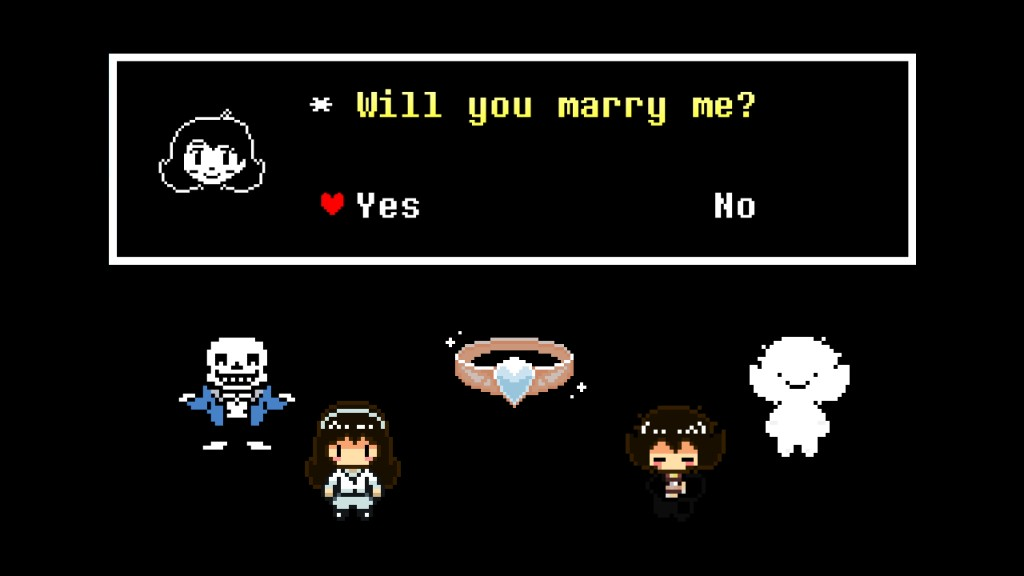
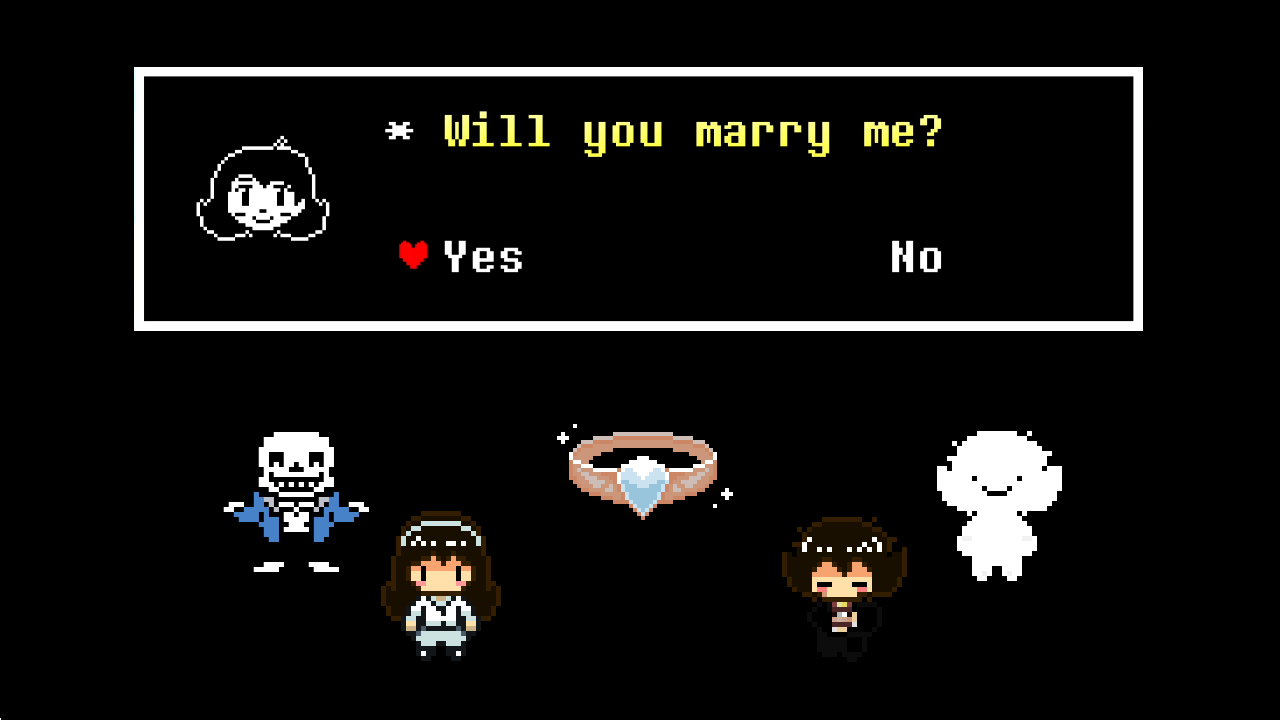
Smooth natural work drawers and stop the YouTube mount 1px bump.
Speed phone/portrait expands, defer YouTube until settle, keep the face poster until paint, and put 16:9 on the player shell so late iframe mounts cannot grow the frame. Point Undertale at the marry-me thumbnail.

diff --git a/src/components/ShowcaseVideoEditingDetail.tsx b/src/components/ShowcaseVideoEditingDetail.tsx
@@ -330,6 +330,17 @@ const DETAIL_TAB_BODY_IN_DELAY_NATURAL_S =
 const DETAIL_TITLE_MOVE_DUR_MS = DETAIL_CARD_RESIZE_DUR_MS;
 /** Now-playing title AnimatePresence crossfade (keep in sync with JSX transition). */
 const DETAIL_TITLE_CROSSFADE_MS = 220;
+/** Phone / tablet-portrait work-switch: same path, tighter clock (keeps eases). */
+const DETAIL_NATURAL_SPEED = 0.72;
+const DETAIL_NATURAL_TITLE_CROSSFADE_MS = Math.round(
+  DETAIL_TITLE_CROSSFADE_MS * DETAIL_NATURAL_SPEED,
+);
+const DETAIL_NATURAL_CUTOFF_LEAD_MS = Math.round(
+  DETAIL_CUTOFF_LEAD_MS * DETAIL_NATURAL_SPEED,
+);
+const DETAIL_NATURAL_CARD_RESIZE_DUR_MS = Math.round(
+  DETAIL_CARD_RESIZE_DUR_MS * DETAIL_NATURAL_SPEED,
+);
 /**
  * Clicks closer than this are "rapid": abort/coalesce and snap instead of stacking
  * the full title→card→reveal choreography.
@@ -690,6 +701,10 @@ export function ShowcaseVideoEditingDetail({
    */
   const [youtubeFaceCoverHold, setYoutubeFaceCoverHold] = useState(false);
   const youtubeFaceCoverHoldTimerRef = useRef<number | null>(null);
+  /** True while work-switch motion is still running — poster must stay up. */
+  const youtubeAwaitingMotionSettleRef = useRef(false);
+  /** Iframe painted during the covered wait (safe to lift once settle clears). */
+  const youtubePaintedUnderCoverRef = useRef(false);
   /** Desktop + tablet landscape — expand/shrink drawer clamped to player bottom. */
   const [isPlayerCappedDrawerViewport, setIsPlayerCappedDrawerViewport] = useState(
     matchesDetailPlayerCapViewport,
@@ -1732,6 +1747,10 @@ export function ShowcaseVideoEditingDetail({
         toHeightPx?: number;
         /** Override rAF duration (natural work-switch couples title + card). */
         durationMs?: number;
+        /** 0-1 multiplier after duration pick (natural phone speed-up). */
+        speedScale?: number;
+        /** Natural: bump reserve once, skip per-frame reserve writes (cut layout thrash). */
+        freezeReserve?: boolean;
       },
     ) => {
       const onSettled = options?.onSettled;
@@ -1846,16 +1865,42 @@ export function ShowcaseVideoEditingDetail({
         const heightDelta = Math.abs(toHeight - fromHeight);
         // Forced short duration is for small tab-scale moves. Tall overviews
         // (Undertale) jammed into 420ms thrash layout every frame on mobile.
-        const resizeDurMs =
+        let resizeDurMs =
           forcedDurationMs != null &&
           forcedDurationMs > 0 &&
           heightDelta <= 160
             ? forcedDurationMs
             : detailCardResizeDurationMs(heightDelta);
+        // Only speed small moves - compressing tall Undertale tweens reads as chop.
+        if (
+          heightDelta <= 160 &&
+          options?.speedScale != null &&
+          options.speedScale > 0 &&
+          options.speedScale < 1
+        ) {
+          resizeDurMs = Math.max(
+            180,
+            Math.round(resizeDurMs * options.speedScale),
+          );
+        }
         // Tall overviews: don't write reserve every frame (double layout on mobile).
         const throttleReserve = heightDelta > 160;
+        const freezeReserve = Boolean(options?.freezeReserve);
         let reserveFrame = 0;
         let lastReserveWritten = -1;
+        // Natural: pre-bump page reserve to the destination once so the shell can
+        // animate without fighting minHeight writes every frame.
+        if (freezeReserve) {
+          const reserveEl = detailPanelReserveRef.current;
+          if (reserveEl) {
+            const destReserve = Math.ceil(Math.max(fromHeight, toHeight));
+            const cur = parseFloat(reserveEl.style.minHeight) || 0;
+            if (destReserve > cur) {
+              reserveEl.style.minHeight = `${destReserve}px`;
+              lastReserveWritten = destReserve;
+            }
+          }
+        }
         surface.style.willChange = "height";
         const tick = (now: number) => {
           if (epoch !== detailCardResizeEpochRef.current) return;
@@ -1881,9 +1926,14 @@ export function ShowcaseVideoEditingDetail({
           // Keep page reserve in lockstep with the card so a post-settle
           // tallest bump isn't a second Undertale jump (esp. tab+work reset).
           // Tall tweens: update reserve every other frame to cut layout thrash.
+          // Natural freezeReserve: skip - already pre-bumped above.
           const reserveEl = detailPanelReserveRef.current;
           reserveFrame += 1;
-          if (reserveEl && (t >= 1 || !throttleReserve || reserveFrame % 2 === 0)) {
+          if (
+            reserveEl &&
+            !freezeReserve &&
+            (t >= 1 || !throttleReserve || reserveFrame % 2 === 0)
+          ) {
             const nextReserve = Math.ceil(h);
             if (nextReserve > lastReserveWritten) {
               const cur = parseFloat(reserveEl.style.minHeight) || 0;
@@ -2355,6 +2405,9 @@ export function ShowcaseVideoEditingDetail({
         }
         return animateDetailTitleToMeasuredHeight(nextIndex, {
           switchEpoch: epoch,
+          ...(isNaturalDrawerViewport
+            ? { durationMs: DETAIL_NATURAL_CARD_RESIZE_DUR_MS }
+            : {}),
         });
       };
 
@@ -2455,10 +2508,25 @@ export function ShowcaseVideoEditingDetail({
                 if (isNaturalDrawerViewport) {
                   skipWorkSwitchLiveFitRef.current = false;
                 }
-                // YouTube iframe last: mount only after title/card motion has settled
-                // so the embed cannot fight FLIP / crossfade / height tweens.
+                // Desktop: YouTube may already be warm under the poster.
+                // Natural: mount only now so the expand is not fighting iframe init.
                 if (nextIsYouTube) {
-                  commitPlayer();
+                  if (isNaturalDrawerViewport) {
+                    youtubeAwaitingMotionSettleRef.current = false;
+                    youtubePaintedUnderCoverRef.current = false;
+                    setPlayerVideoIndex(nextIndex);
+                    setPlayerFaceIndex(nextIndex);
+                    armYoutubeFaceCoverHold();
+                    releaseYoutubeFaceCoverHoldSoon();
+                  } else {
+                    youtubeAwaitingMotionSettleRef.current = false;
+                    if (youtubePaintedUnderCoverRef.current) {
+                      clearYoutubeFaceCoverHoldTimer();
+                      setYoutubeFaceCoverHold(false);
+                    } else {
+                      releaseYoutubeFaceCoverHoldSoon();
+                    }
+                  }
                 }
                 setDetailBodyVisible(true);
                 releaseNaturalDrawerResizeLock();
@@ -2533,10 +2601,13 @@ export function ShowcaseVideoEditingDetail({
                   // Keep this correction short so it doesn't stack into a second
                   // Undertale-tall beat after the primary probe tween — slightly
                   // longer + softer ease-out so the shell shrink feels smoother.
-                  const hugDurMs = Math.min(
-                    300,
-                    Math.max(200, Math.round(overshoot * 1.35)),
-                  );
+                  // Natural: same correction, tighter clock.
+                  const hugDurMs = isNaturalDrawerViewport
+                    ? Math.min(160, Math.max(100, Math.round(overshoot * 0.9)))
+                    : Math.min(
+                        300,
+                        Math.max(200, Math.round(overshoot * 1.35)),
+                      );
                   const hugEpoch = ++detailCardResizeEpochRef.current;
                   beginDetailCardHeightTransition();
                   surfaceEl.classList.add("video-editing-detail-meta-card--tweening");
@@ -2585,7 +2656,11 @@ export function ShowcaseVideoEditingDetail({
               continueShowBody();
             };
             // Rapid / reduced-motion: no lead. Otherwise let dissolve start first.
-            const leadMs = rapid ? 0 : DETAIL_CUTOFF_LEAD_MS;
+            const leadMs = rapid
+              ? 0
+              : isNaturalDrawerViewport
+                ? DETAIL_NATURAL_CUTOFF_LEAD_MS
+                : DETAIL_CUTOFF_LEAD_MS;
             if (leadMs <= 0) {
               showBody();
               return;
@@ -2620,7 +2695,17 @@ export function ShowcaseVideoEditingDetail({
             ...((isNaturalDrawerViewport ||
               isTabletLandscapeViewport ||
               tabAlsoResets)
-              ? { durationMs: DETAIL_CARD_RESIZE_DUR_MS }
+              ? {
+                  durationMs: isNaturalDrawerViewport
+                    ? DETAIL_NATURAL_CARD_RESIZE_DUR_MS
+                    : DETAIL_CARD_RESIZE_DUR_MS,
+                  ...(isNaturalDrawerViewport
+                    ? {
+                        speedScale: DETAIL_NATURAL_SPEED,
+                        freezeReserve: true,
+                      }
+                    : {}),
+                }
               : {}),
           });
           return;
@@ -2658,7 +2743,7 @@ export function ShowcaseVideoEditingDetail({
       const startTitleFadeThenHeight = () => {
         if (epoch !== workSwitchEpochRef.current) return;
         // After any tab FLIP wait: start title/card. Non-YouTube players are cheap
-        // and can commit now; YouTube iframe waits until continueShowBody (last).
+        // and commit now. YouTube is already mounting under the face poster.
         if (!nextIsYouTube) {
           commitPlayer();
         }
@@ -2670,9 +2755,24 @@ export function ShowcaseVideoEditingDetail({
             return;
           }
           // Crossfade alone, then height, then card.
-          runAfterDelay(DETAIL_TITLE_CROSSFADE_MS, startTitleHeightThenCard);
+          runAfterDelay(
+            isNaturalDrawerViewport
+              ? DETAIL_NATURAL_TITLE_CROSSFADE_MS
+              : DETAIL_TITLE_CROSSFADE_MS,
+            startTitleHeightThenCard,
+          );
         };
         beginTitle();
+      };
+
+      /** Mount iframe under the face poster (cover stays until settle + paint). */
+      const mountYoutubeUnderPoster = () => {
+        if (epoch !== workSwitchEpochRef.current) return;
+        youtubeAwaitingMotionSettleRef.current = true;
+        youtubePaintedUnderCoverRef.current = false;
+        setPlayerVideoIndex(nextIndex);
+        setPlayerFaceIndex(nextIndex);
+        armYoutubeFaceCoverHold();
       };
 
       // Prefetch while earlier beats run (not during first FLIP frames).
@@ -2691,9 +2791,10 @@ export function ShowcaseVideoEditingDetail({
         return;
       }
 
-      // Video card first (visual): face/poster immediately. Real YouTube iframe waits
-      // until after title/card settle (continueShowBody) so it does not fight FLIP /
-      // crossfade / height tweens — historically the Undertale switch lag.
+      // Video card first (visual): face/poster immediately. YouTube iframe mounts
+      // under that poster after one paint (and after tab FLIP when tabs reset) so
+      // load overlaps title/card motion without a visible fight; cover lifts only
+      // after settle + iframe paint.
       commitPlayerFace();
       if (!nextIsYouTube) {
         // Images / file players are cheap — swap the real player with the face.
@@ -2701,15 +2802,24 @@ export function ShowcaseVideoEditingDetail({
       }
 
       if (deferWorkForTabs) {
-        runAfterDelay(tabFlipWaitMs, startTitleFadeThenHeight);
+        runAfterDelay(tabFlipWaitMs, () => {
+          // Desktop/tablet-landscape: warm YouTube under poster during title/card.
+          // Natural: wait until expand settles to avoid jank.
+          if (nextIsYouTube && !isNaturalDrawerViewport) {
+            mountYoutubeUnderPoster();
+          }
+          startTitleFadeThenHeight();
+        });
         return;
       }
 
       if (nextIsYouTube) {
-        // Let the poster paint before mounting the iframe + starting title.
         requestAnimationFrame(() => {
           requestAnimationFrame(() => {
             if (epoch !== workSwitchEpochRef.current) return;
+            if (!isNaturalDrawerViewport) {
+              mountYoutubeUnderPoster();
+            }
             startTitleFadeThenHeight();
           });
         });
@@ -4586,6 +4696,11 @@ export function ShowcaseVideoEditingDetail({
                   <VideoEditingPlyrPlayer
                     video={playerVideo}
                     onYouTubeLoad={() => {
+                      youtubePaintedUnderCoverRef.current = true;
+                      if (youtubeAwaitingMotionSettleRef.current) {
+                        // Motion still running — keep poster; settle path will lift.
+                        return;
+                      }
                       if (youtubeFaceCoverHoldTimerRef.current != null) {
                         window.clearTimeout(youtubeFaceCoverHoldTimerRef.current);
                         youtubeFaceCoverHoldTimerRef.current = null;
@@ -4646,7 +4761,8 @@ export function ShowcaseVideoEditingDetail({
                       className="video-editing-works-strip-track contents"
                     >
                     {videos.map((video, index) => {
-                      const active = index === safeIndex;
+                      // Face index leads the work switch; keep strip highlight in sync with poster.
+                      const active = index === safeFaceIndex;
                       const selectorTitle = video.selectorTitle?.trim() || (isSlaywire ? "" : `Edit ${index + 1}`);
                       const selectorSubtitle =
                         video.selectorSubtitle?.trim() || (isSlaywire ? "" : "Video edit");

diff --git a/src/index.css b/src/index.css
@@ -6784,8 +6784,12 @@
     border-radius: inherit;
   }
 
-  /* SLAYWIRE â€” image hero matches Plyr 16:9 frame */
-  .video-editing-player--image {
+  /* Image + plyr share the same bordered 16:9 shell on stacked layouts.
+     Aspect on the PLAYER (not the youtube-embed child) so image→YouTube
+     swaps after natural expand settle cannot grow the frame by ~1px
+     (border-box: inner aspect + outer border ≠ player aspect). */
+  .video-editing-player--image,
+  .video-editing-player--plyr {
     aspect-ratio: 16 / 9;
     height: auto;
   }
@@ -6849,7 +6853,8 @@
   }
 
   /* Native YouTube embed fills the existing player frame.
-     Stacked phone/tablet: 16:9 from the embed (absolute iframe cannot size the card).
+     Stacked phone/tablet: player shell owns 16:9; embed is absolute so
+     late natural iframe mount cannot bump page layout by ~1px.
      Two-column desktop/iPad landscape: parent already has a height; fill it. */
   .video-editing-player--plyr iframe {
     display: block;
@@ -6868,8 +6873,11 @@
   #projects.projects-slaywire-detail-open
     .video-editing-player
     > .video-editing-youtube-embed {
-    aspect-ratio: 16 / 9;
-    height: auto !important;
+    position: absolute;
+    inset: 0;
+    width: 100%;
+    height: 100% !important;
+    aspect-ratio: auto;
   }
 
   @media (min-width: 1024px) and (pointer: fine),

diff --git a/src/pages/Home.tsx b/src/pages/Home.tsx
@@ -6861,7 +6861,7 @@ const PROJECT_CARDS: readonly ShowcaseProjectCard[] = [
         id: "interactive-media-1",
         url: "https://youtu.be/_YiB0_TS2U0",
         label: "UNDERTALE FHE",
-        thumbnailSrc: "/portfolio-website-thumbnail-v2-poster.jpg",
+        thumbnailSrc: "/undertale-fhe-thumbnail.png",
         selectorTitle: "UNDERTALE: Forever Home Edition (2025)",
         selectorSubtitle: "Video Game",
         detailOverview:
